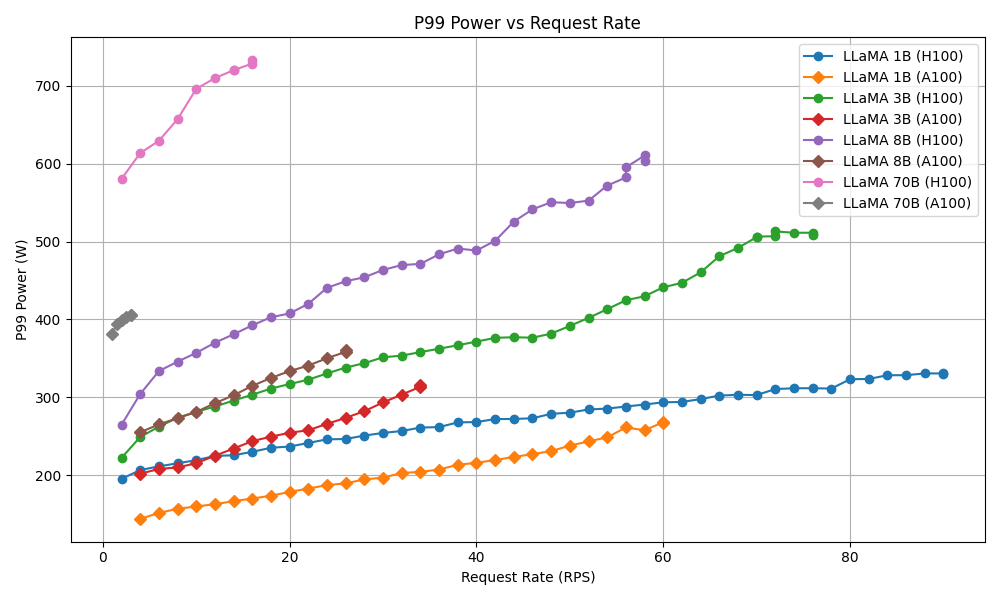
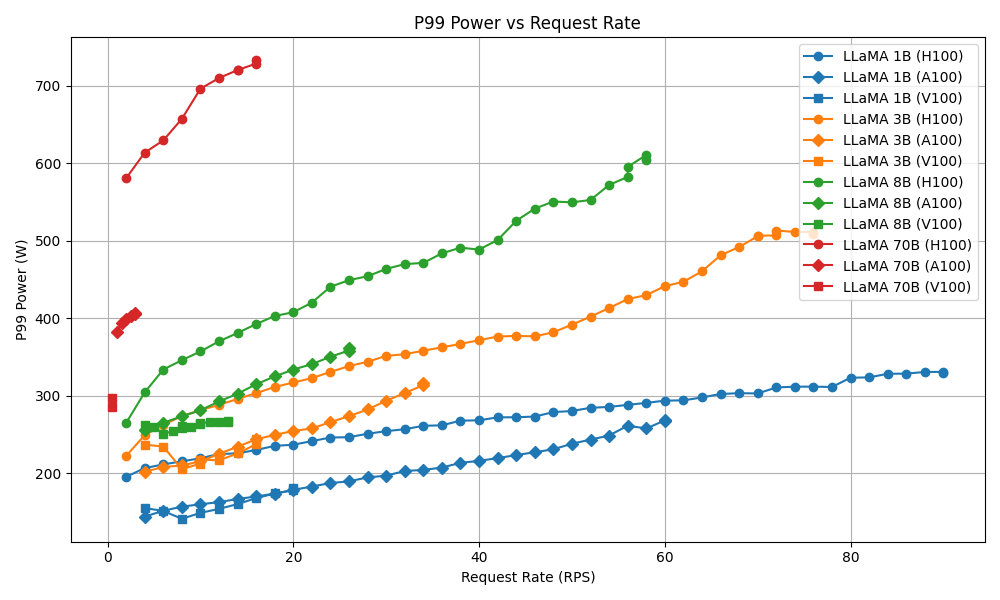
add v100 plot

diff --git a/new_benchs/results/plot_llamas.py b/new_benchs/results/plot_llamas.py
@@ -1,81 +1,68 @@
 import pandas as pd
 import matplotlib.pyplot as plt
+import itertools
 
 # Define models and accelerators
 model_sizes = ['1b', '3b', '8b', '70b']
-accelerators = ['h100', 'a100']
+accelerators = ['h100', 'a100', 'v100']
 file_template = 'llama{}_{}.csv'
 
-# Legend labels
-labels = {
+# Human-readable labels
+model_labels = {
     '1b': 'LLaMA 1B',
     '3b': 'LLaMA 3B',
     '8b': 'LLaMA 8B',
     '70b': 'LLaMA 70B'
 }
 
-# Marker style per accelerator
-markers = {
-    'h100': 'o',   # circles
-    'a100': 'D'    # diamonds
+# Marker per accelerator
+marker_style = {
+    'h100': 'o',  # Circle
+    'a100': 'D',  # Diamond
+    'v100': 's',  # Square
 }
 
-# Storage dictionaries
+# Assign unique color to each model
+color_cycle = itertools.cycle(plt.rcParams['axes.prop_cycle'].by_key()['color'])
+model_colors = {model: next(color_cycle) for model in model_sizes}
+
+# Data containers
 ttft_data = {}
 tbt_data = {}
 power_data = {}
 
-# Load all files
+# Load data
 for model in model_sizes:
     for accel in accelerators:
-        fname = file_template.format(model, accel)
-        label = f"{labels[model]} ({accel.upper()})"
+        file_name = file_template.format(model, accel)
+        label = f"{model_labels[model]} ({accel.upper()})"
         try:
-            df = pd.read_csv(fname)
+            df = pd.read_csv(file_name)
             rps = df['RequestRate']
-            ttft_data[label] = (rps, df['P99_TTFT'], markers[accel])
-            tbt_data[label] = (rps, df['P99_TPOT'], markers[accel])
-            power_data[label] = (rps, df['P99_POWINST'], markers[accel])
+            ttft_data[label] = (rps, df['P99_TTFT'], model_colors[model], marker_style[accel])
+            tbt_data[label] = (rps, df['P99_TPOT'], model_colors[model], marker_style[accel])
+            power_data[label] = (rps, df['P99_POWINST'], model_colors[model], marker_style[accel])
         except FileNotFoundError:
-            print(f"Warning: {fname} not found. Skipping.")
+            print(f"Warning: {file_name} not found. Skipping.")
 
-# === Plot TTFT ===
-plt.figure(figsize=(10, 6))
-for label, (rps, ttft, marker) in ttft_data.items():
-    plt.plot(rps, ttft, label=label, marker=marker)
-plt.ylim(0, 400)
-plt.xlabel('Request Rate (RPS)')
-plt.ylabel('P99 TTFT (ms)')
-plt.title('P99 TTFT vs Request Rate')
-plt.legend()
-plt.grid(True)
-plt.tight_layout()
-plt.savefig('llama_ttft.png')
-plt.close()
+# Plot helper
+def plot_metric(data, ylabel, title, filename, ylim=None):
+    plt.figure(figsize=(10, 6))
+    for label, (rps, yvals, color, marker) in data.items():
+        plt.plot(rps, yvals, label=label, marker=marker, color=color)
+    plt.xlabel('Request Rate (RPS)')
+    plt.ylabel(ylabel)
+    if ylim:
+        plt.ylim(*ylim)
+    plt.title(title)
+    plt.legend()
+    plt.grid(True)
+    plt.tight_layout()
+    plt.savefig(filename)
+    plt.close()
 
-# === Plot TBT ===
-plt.figure(figsize=(10, 6))
-for label, (rps, tbt, marker) in tbt_data.items():
-    plt.plot(rps, tbt, label=label, marker=marker)
-plt.xlabel('Request Rate (RPS)')
-plt.ylabel('P99 TBT (ms)')
-plt.title('P99 TBT vs Request Rate')
-plt.legend()
-plt.grid(True)
-plt.tight_layout()
-plt.savefig('llama_tbt.png')
-plt.close()
-
-# === Plot Power ===
-plt.figure(figsize=(10, 6))
-for label, (rps, power, marker) in power_data.items():
-    plt.plot(rps, power, label=label, marker=marker)
-plt.xlabel('Request Rate (RPS)')
-plt.ylabel('P99 Power (W)')
-plt.title('P99 Power vs Request Rate')
-plt.legend()
-plt.grid(True)
-plt.tight_layout()
-plt.savefig('llama_power.png')
-plt.close()
+# === Plot ===
+plot_metric(ttft_data, 'P99 TTFT (ms)', 'P99 TTFT vs Request Rate', 'llama_ttft.png', ylim=(0, 400))
+plot_metric(tbt_data, 'P99 TBT (ms)', 'P99 TBT vs Request Rate', 'llama_tbt.png')
+plot_metric(power_data, 'P99 Power (W)', 'P99 Power vs Request Rate', 'llama_power.png')
 
